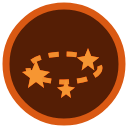
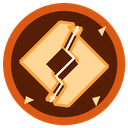
Battle readability: round and enrage counter, Broken look, honest dodge, tip fixes
- Round counter under the stage info (both HUDs): Round N, red with
  "Enrage xN" from round 10 (the wide HUD adds +N0% dmg / -N0% heal); not
  in the Titan fight. A one-time Enrage tip (Tips "enrage").
- Broken has its own look: a new status icon (cracked sigil, not Stun's
  stars; unity/Tools~/skin/broken_icon.py), a recoil-and-hold reaction
  instead of the dazed crouch, cracked ground in the breaking element, and
  an orange BREAK! banner.
- The Break tip and legend no longer say only foes can be Broken.
- The dodge roll only plays on a fully absorbed hit, never when HP drops.
- The screenshot tour's combat-ui shot also stages a Broken icon and an
  enraged round counter.

Claude-Session: https://claude.ai/code/session_01MzwG5WXmTevVo9pQJnfpqh

diff --git a/unity/Assets/Sigilbound/Client/BattleController.cs b/unity/Assets/Sigilbound/Client/BattleController.cs
@@ -616,7 +616,7 @@ namespace Sigilbound.Client
                 {
                     case EvType.Damage:
                         if (e.Dot) { SkillFx.I?.DebuffTick(v.transform.position, "poison"); Vfx.I.Number(c, Ui.Fmt(e.Amount), new Color(0.5f, 1f, 0.45f)); break; }
-                        if (e.Amount <= 0) break; // fully absorbed by a shield: the "Shield" number says it (no "CRIT 0")
+                        if (e.Amount <= 0) { v.Hit(false, true); break; } // fully absorbed by a shield: the "Shield" number says it (no "CRIT 0"); only now may it dodge
                         // weapon x armour: the attacker's weapon landing and the defender's armour answering (plate clangs,
                         // mail jingles, leather slaps, cloth thuds), heard from where the blow lands; the Titan is plate.
                         float hpan = Sound.PanOf(c);
@@ -626,8 +626,8 @@ namespace Sigilbound.Client
                         if (SkillFx.I != null) SkillFx.I.Impact(c, e.Source != null ? e.Source.El : _lastEl, e.Crit); else Vfx.I.Burst(c, color, e.Crit);
                         // The attacker's signature motif on each hit (phase E 53-55).
                         if (SkillFx.I != null && e.Source != null && !e.Source.Titan) SkillFx.I.Signature(c, e.Source.El, HeroSignatures.Of(e.Source.Template.Id, e.Source.El), e.Crit ? 0.9f : 0.6f);
-                        // Heavier reaction on crits and hits over 14% of max HP; weak glancing blows may be rolled away.
-                        v.Hit(e.Crit || e.Amount / (float)Mathf.Max(1, e.Unit.MaxHp) > 0.14f, e.Elem < 1 || e.Amount / (float)Mathf.Max(1, e.Unit.MaxHp) < 0.04f);
+                        // Heavier reaction on crits and hits over 14% of max HP. HP was lost, so no dodge (PLAN step 99).
+                        v.Hit(e.Crit || e.Amount / (float)Mathf.Max(1, e.Unit.MaxHp) > 0.14f);
                         if (e.Crit) SkillFx.I?.CritFlash(e.Source != null ? e.Source.El : _lastEl);
                         ArenaEvents.RaiseHit(v.transform.position, e.Amount / (float)Mathf.Max(1, e.Unit.MaxHp), e.Crit, _ultBy != null || (e.Source != null && e.Source.Boss));
                         Vfx.I.Number(c + Vector3.up * 0.3f, (e.Crit ? "CRIT " : "") + Ui.Fmt(e.Amount),
@@ -650,10 +650,20 @@ namespace Sigilbound.Client
                         else if (e.Fx == FxType.Shield) SkillFx.I.Shield(v.transform.position);
                         else SkillFx.I.Buff(v.transform.position, FxDef.IsBuff(e.Fx));
                         if (e.Fx == FxType.Stun) { if (KnocksDown(e)) v.KnockDown(); else v.Stun(); }
-                        else if (e.Fx == FxType.Broken) { v.Stun(); Tips.SawBreak = true; } // the one-time Weakness Break tip
+                        else if (e.Fx == FxType.Broken)
+                        {
+                            // Its own look (not Stun's): recoil and hold, cracked ground in the element that broke it.
+                            v.Broken(); Tips.SawBreak = true; // the one-time Weakness Break tip
+                            SkillFx.I?.Cracks(v.transform.position, BreakerOf(e.Unit.El), 1.4f);
+                            Vfx.I.Shake(0.08f);
+                        }
                         else v.StatusPulse(FxDef.IsBuff(e.Fx));
                         Vfx.I.Number(c + Vector3.up * 0.6f, SkillText.EffectName(e.Fx), FxDef.IsBuff(e.Fx) ? new Color(1f, 0.85f, 0.4f) : new Color(0.8f, 0.55f, 1f), 0.7f); break;
-                    case EvType.Text: Vfx.I.Number(c + Vector3.up * 0.6f, e.Text, new Color(0.8f, 0.9f, 1f), 0.7f); if (e.Text == "Revived!") v.Revived();
+                    case EvType.Text:
+                        if (e.Text == "Break!" || e.Text == "Broken!") Vfx.I.Number(c + Vector3.up * 0.75f, e.Text == "Break!" ? "BREAK!" : "Broken!", BreakColor, e.Text == "Break!" ? 1.35f : 0.9f); // the break banner, in the break bar's orange
+                        else Vfx.I.Number(c + Vector3.up * 0.6f, e.Text, new Color(0.8f, 0.9f, 1f), 0.7f);
+                        if (e.Text.StartsWith("Enrage")) Tips.SawEnrage = true; // the one-time Enrage tip
+                        if (e.Text == "Revived!") v.Revived();
                         if (e.Text == "Counter!")
                         {
                             // The counter's own hit follows: face whoever it lands on.
@@ -668,6 +678,22 @@ namespace Sigilbound.Client
         }
 
         static readonly Color BreakColor = new Color(1f, 0.6f, 0.22f); // the weakness break meter (PLAN step 98)
+        // The element that beats `el` (the one whose hits break it).
+        static Element BreakerOf(Element el) { foreach (var x in Elements) if (ElementMultiplier(x, el) > 1) return x; return el; }
+
+        // Round counter (PLAN step 99): the wave's round, red with "Enrage xN" from round EnrageFrom, when every hit
+        // deals +10% per stack and healing and shields lose as much. Not in the Titan fight (no enrage; it has turns).
+        static readonly Color EnrageRed = new Color(0.86f, 0.2f, 0.16f);
+        void RoundPill(float x, float y, bool detail)
+        {
+            if (_b == null || _b.IsTitan || _b.Over) return;
+            int st = _b.EnrageStacks;
+            string txt = st > 0 ? (detail ? $"Round {_b.Round} · Enrage x{st}  +{st * 10}% dmg  -{System.Math.Min(100, st * 10)}% heal" : $"Round {_b.Round} · Enrage x{st}") : $"Round {_b.Round}";
+            float w = st > 0 ? (detail ? 262 : 138) : 70;
+            var r = new Rect(x, y, w, 20);
+            Ui.Round(r, st > 0 ? new Color(EnrageRed.r, EnrageRed.g, EnrageRed.b, 0.88f) : new Color(0.06f, 0.05f, 0.08f, 0.6f), st > 0 ? (Color?)new Color(1f, 0.55f, 0.45f) : null, 8);
+            Ui.Text(r, txt, 11, st > 0 ? Color.white : Palette.Dim, FontStyle.Bold, TextAnchor.MiddleCenter);
+        }
         // The break meter: a dark track with an orange fill and a bright leading edge, so a part-filled meter
         // reads at battle size (the first 2 px line was invisible in the in-game check).
         static void BreakBar(Rect r, double brk)
@@ -965,6 +991,7 @@ namespace Sigilbound.Client
             bx -= 46; if (Ui.Button(new Rect(bx, top + 8, 42, 34), "Cam", Ui.Kind.Secondary, 11)) CycleCamera();
             Ui.Text(new Rect(56, top + 8, bx - 60, 34), info, 12, Palette.Text, FontStyle.Bold, TextAnchor.MiddleLeft, false, true);
             DrawTurnBar(top + 50);
+            RoundPill(8, top + 84, false);
 
             // unit bars + tap targets
             bool manual = _awaiting && _actor != null && _actor.Ally && !Auto;
@@ -1066,6 +1093,7 @@ namespace Sigilbound.Client
             Ui.Text(new Rect(info.x + 6, info.y + 2, 220, 18), where, 12, Palette.Text, FontStyle.Bold, TextAnchor.MiddleLeft, false, true);
             Icons.Draw(new Rect(info.x + 6, info.y + 22, 12, 12), Icon.Clock, Palette.Dim);
             Ui.Text(new Rect(info.x + 22, info.y + 20, 200, 16), $"{secs / 60}:{secs % 60:00}{(round.Length > 0 ? "   " + round : "")}", 11, Palette.Dim);
+            RoundPill(info.x - 4, info.y + 42, true);
 
             // ---- top-right: camera, loop, auto, speed, pause ----
             float bx = right - 40;

diff --git a/unity/Assets/Sigilbound/Core/Tips.cs b/unity/Assets/Sigilbound/Core/Tips.cs
@@ -13,7 +13,8 @@ namespace Sigilbound.Core
         {
             new Tip { Id = "welcome", Title = "Welcome to Sigilbound", Body = "Press Continue Campaign to fight. Clearing stages earns gold, XP, gear and summon shards.\n\nClaim your Daily Login and finish Daily Quests on this screen every day. Everything is free — there is no shop." },
             new Tip { Id = "battle", Title = "How battles work", Body = "On your hero's turn, tap a skill, then tap a target. Skills that say \"ready in\" need a few turns to recharge.\n\nElements matter: Flame beats Gale, Gale beats Tide, Tide beats Flame, and Light and Shadow beat each other.\n\nTap Auto to let the heroes fight on their own, and the speed button to go up to 3x." },
-            new Tip { Id = "break", Title = "Weakness Break", Body = "Break! Hits from the element that beats a foe fill its orange bar. When full, the foe loses a turn." },
+            new Tip { Id = "break", Title = "Weakness Break", Body = "Break! Hits from the element that beats a unit fill its orange bar (your heroes have one too). When it's full, that unit is Broken and loses its next turn." },
+            new Tip { Id = "enrage", Title = "Enrage", Body = "Long fights Enrage from round 10 of a wave: each round after that, every hit (both sides) deals 10% more damage and healing and shields get 10% weaker. The round counter turns red.\n\nBy round 19 healing and shields stop working, so bring enough damage to finish the fight." },
             new Tip { Id = "gear", Title = "You found gear!", Body = "Open Heroes, pick a hero and tap a gear slot to equip it — or tap Auto-equip. Two pieces of the same set give a bonus.\n\nGear shows on the hero's 3D model, and better gear looks fancier." },
             new Tip { Id = "summon", Title = "Summon new heroes", Body = "You have summon shards. Open Summon to call new heroes — every shard is earned by playing." },
             new Tip { Id = "trials", Title = "Dungeons unlocked", Body = "Open Trials for daily Dungeons: gold, a big hero-XP boost, or gear of the set you choose. You get 3 winning runs per dungeon each day." },
@@ -23,6 +24,8 @@ namespace Sigilbound.Core
         // Set by the battle view the first time it shows a unit being Broken (PLAN step 98): the "break" tip
         // then explains Weakness Break once, in the battle the player is watching.
         public static bool SawBreak;
+        // Set by the battle view when a wave first Enrages (PLAN step 99): the "enrage" tip explains it once.
+        public static bool SawEnrage;
 
         static bool When(Tip t, Game g, bool onHome, bool inBattle)
         {
@@ -32,6 +35,7 @@ namespace Sigilbound.Core
                 case "welcome": return S.started && onHome;
                 case "battle": return inBattle;
                 case "break": return inBattle && SawBreak;
+                case "enrage": return inBattle && SawEnrage;
                 case "gear": return !inBattle && S.wins > 0 && S.gear.Count > 0;
                 case "summon": return !inBattle && S.cleared >= 3 && S.shardCommon + S.shardMystic + S.shardRadiant > 0;
                 case "trials": return !inBattle && g.DungeonsOpen;

diff --git a/unity/Assets/Sigilbound/Client/CharacterView.cs b/unity/Assets/Sigilbound/Client/CharacterView.cs
@@ -503,8 +503,9 @@ namespace Sigilbound.Client
             _busy = false;
         }
 
-        // big: a crit or more than 14% of max HP (heavier reaction); glancing blows may be rolled away.
-        public void Hit(bool big = false, bool glancing = false)
+        // big: a crit or more than 14% of max HP (heavier reaction). noHpLost: the blow was fully absorbed, so it
+        // may be rolled away or blocked; a hit that costs HP never plays the dodge (MECHANICS.md 9.6).
+        public void Hit(bool big = false, bool noHpLost = false)
         {
             if (_dead) return;
             if (_animator != null) _animator.SetTrigger("Hit");
@@ -512,7 +513,7 @@ namespace Sigilbound.Client
             {
                 bool guard = !big && !Unit.Titan && (Unit.Template.Role == Role.Defense || Impact.FamilyOf(Unit.Template.Id) == WeaponFamily.Shield) && Random.value < 0.5f;
                 if (guard && _model.Block()) { }
-                else if (!big && glancing && !Unit.Titan && Unit.Template.Role != Role.Defense && Random.value < 0.35f && _model.Roll()) { } // Defense never dodges
+                else if (!big && noHpLost && !Unit.Titan && Unit.Template.Role != Role.Defense && Random.value < 0.35f && _model.Roll()) { } // Defense never dodges
                 else _model.Hit(big);
             }
             if (!Unit.Titan) _hitCo = StartCoroutine(HitRoutine(big));
@@ -590,6 +591,23 @@ namespace Sigilbound.Client
         }
 
         public void Stun() { if (!_dead && _model != null && !Unit.Titan && !_busy && _model.Stunned()) StartCoroutine(StunRoutine()); }
+
+        // Broken (MECHANICS.md 3.1 and 9.4): a weakness break, told apart from Stun's dazed crouch. A heavy recoil,
+        // a 0.22 s hit-stop hold, then the shoulders-down posture pulse back into the stance (the lost turn itself
+        // shows "Broken!"). The cracked ground and the BREAK! banner come from BattleController.
+        public void Broken() { if (!_dead && _model != null && !Unit.Titan && !_busy) StartCoroutine(BrokenRoutine()); }
+        IEnumerator BrokenRoutine()
+        {
+            _busy = true;
+            _model.Hit(true);
+            yield return new WaitForSeconds(0.16f);
+            if (_dead) { _busy = false; yield break; }
+            _model.SetFrozen(true); yield return new WaitForSeconds(0.22f); _model.SetFrozen(false);
+            if (_posture != null) _posture.Pulse(false);
+            yield return new WaitForSeconds(0.35f);
+            if (!_dead) _model.Idle(0.25f);
+            _busy = false;
+        }
         IEnumerator StunRoutine() { yield return new WaitForSeconds(2.4f); if (!_dead && !_busy) _model.Idle(0.3f); }
 
         public void Lose() { if (!_dead && _model != null) { _busy = true; _model.Defeat(); } }

diff --git a/unity/Tests~/ParityTests.cs b/unity/Tests~/ParityTests.cs
@@ -333,7 +333,9 @@ static class ParityTests
         Check(t1?.Id == "welcome" && t2 == null && t3?.Id == "battle" && tg.S.modes.tips.SequenceEqual(new[] { "welcome", "battle" }), "first-time tips show once each, in order, when their condition holds");
         // Unity-only: the Weakness Break tip waits for a watched Break, then shows once (PLAN step 98).
         Tips.SawBreak = false; var tb0 = Tips.Next(tg, false, true); Tips.SawBreak = true; var tb1 = Tips.Next(tg, false, true); var tb2 = Tips.Next(tg, false, true); Tips.SawBreak = false;
-        Check(tb0 == null && tb1?.Id == "break" && tb1.Body.StartsWith("Break! Hits from the element that beats a foe") && tb2 == null, "the Weakness Break tip shows once, after the first Break the player sees");
+        Check(tb0 == null && tb1?.Id == "break" && tb1.Body.StartsWith("Break! Hits from the element that beats a unit") && tb1.Body.Contains("your heroes") && tb2 == null, "the Weakness Break tip shows once, after the first Break the player sees (heroes can be Broken too)");
+        Tips.SawEnrage = false; var te0 = Tips.Next(tg, false, true); Tips.SawEnrage = true; var te1 = Tips.Next(tg, false, true); var te2 = Tips.Next(tg, false, true); Tips.SawEnrage = false;
+        Check(te0 == null && te1?.Id == "enrage" && te1.Body.Contains("round 10") && te2 == null, "the Enrage tip shows once, after the first Enrage in a battle");
         var vet = new Game(seed: 3) { Now = () => now }; vet.StartWith("hask"); vet.S.wins = 4; vet.S.summons = 2; Tips.Seed(vet);
         Check(vet.S.modes.tips.Contains("welcome") && vet.S.modes.tips.Contains("battle") && vet.S.modes.tips.Contains("gear") && vet.S.modes.tips.Contains("summon"), "existing players skip beginner tips (seedTips)");
         var run = new AutoRun(); run.Record(true, new Reward { Gold = 500, Xp = 100, Common = 1 }, true, new[] { "Hask Lv 6" }); run.Record(false, null, false, null);

diff --git a/unity/Tools~/skin/broken_icon.py b/unity/Tools~/skin/broken_icon.py
@@ -1,0 +1,31 @@
+# Usage: python3 unity/Tools~/skin/broken_icon.py unity/Assets/Resources/StatusIcons/Broken.png
+# Broken status icon (PLAN step 99): the same orange rim and fill as the old icon, with a cracked
+# diamond sigil in place of Stun's orbiting stars, so Broken no longer reads as Stun.
+import sys
+from PIL import Image, ImageDraw
+S = 512; k = S / 128
+img = Image.new("RGBA", (S, S), (40, 10, 0, 0)); d = ImageDraw.Draw(img)
+d.ellipse([3*k, 3*k, 125*k, 125*k], fill=(218, 89, 19, 255))
+d.ellipse([11*k, 11*k, 117*k, 117*k], fill=(85, 30, 5, 255))
+def P(pts): return [(x*k, y*k) for x, y in pts]
+cream = (255, 214, 150, 255); glow = (255, 160, 60, 255)
+# crack line through the diamond: zigzag from top-right to bottom-left
+crack = [(78, 26), (66, 50), (74, 58), (56, 76), (62, 84), (50, 102)]
+left = [(64, 24), (78, 26), (66, 50), (74, 58), (56, 76), (62, 84), (50, 102), (64, 104), (24, 64)]
+right = [(64, 24), (104, 64), (64, 104), (50, 102), (62, 84), (56, 76), (74, 58), (66, 50), (78, 26)]
+# the two halves pushed apart (left up-left, right down-right)
+dx = 4
+L = [(x - dx, y - dx * 0.6) for x, y in left]; R = [(x + dx, y + dx * 0.6) for x, y in right]
+for poly in (L, R):
+    d.polygon(P(poly), fill=cream, outline=glow)
+    d.line(P(poly + [poly[0]]), fill=glow, width=int(3*k))
+# inner sigil cut-out (a small diamond), split too
+inner = [(64, 48), (80, 64), (64, 80), (48, 64)]
+d.polygon(P([(x - dx * 0.5, y) for x, y in inner]), fill=(85, 30, 5, 255))
+# the crack glows in the gap
+d.line(P(crack), fill=(255, 245, 220, 255), width=int(2.4*k), joint="curve")
+# flying shards
+for tri in ([(98, 30), (106, 26), (102, 36)], [(26, 96), (34, 100), (24, 104)], [(92, 98), (100, 96), (96, 106)]):
+    d.polygon(P(tri), fill=cream)
+img = img.resize((128, 128), Image.LANCZOS)
+img.save(sys.argv[1])

diff --git a/unity/Assets/Sigilbound/Client/ShotsMode.cs b/unity/Assets/Sigilbound/Client/ShotsMode.cs
@@ -139,8 +139,9 @@ namespace Sigilbound.Client
             yield return new WaitForSecondsRealtime(4f);
             yield return Shot("battle-mid");
             LogBudget("battle-mid");
-            // Stage the new combat UI for one shot: a part-filled Break bar on each enemy and a x3 Poison
-            // stack (badge) on the first one (nothing is saved in this mode).
+            // Stage the new combat UI for one shot: a part-filled Break bar on each enemy, a x3 Poison stack
+            // (badge) on the first one, a Broken icon on the second and an enraged round counter (round 12,
+            // Enrage x3) (nothing is saved in this mode).
             var core = Battle.Engine;
             if (core != null)
             {
@@ -151,6 +152,8 @@ namespace Sigilbound.Client
                     var p = foes[0].Effects.Find(e => e.Type == FxType.Poison);
                     if (p != null) p.Stacks = 3; else foes[0].Effects.Add(new Effect { Type = FxType.Poison, Turns = 3, Stacks = 3 });
                 }
+                if (foes.Count > 1 && !foes[1].Has(FxType.Broken)) { foes[1].Break = 0; foes[1].Effects.Add(new Effect { Type = FxType.Broken, Turns = 1 }); }
+                core.SkipToRound(Sigilbound.Core.Battle.EnrageFrom + 2);
                 yield return Shot("combat-ui");
             }
             G.S.settings.speed = 3; // finish the fight quickly so the results screen is photographed

diff --git a/unity/Assets/Sigilbound/Client/StatusIcons.cs b/unity/Assets/Sigilbound/Client/StatusIcons.cs
@@ -25,7 +25,7 @@ namespace Sigilbound.Client
             (FxType.AtkDown, "Attack down", "Deals less damage."), (FxType.DefDown, "Defense down", "Takes more damage."),
             (FxType.Slow, "Slow", "Acts later."), (FxType.Poison, "Poison", "Loses health each turn (stacks up to 3)."),
             (FxType.Burn, "Burn", "Takes fire damage each turn (stacks up to 3)."), (FxType.Stun, "Stun", "Skips its next turn."),
-            (FxType.Broken, "Broken", "Weakness break: hit 3 times by the element that beats it, it skips a turn."),
+            (FxType.Broken, "Broken", "Weakness break: its orange bar filled (hits from the element that beats it), so it loses its next turn."),
         };
 
         // Draws the icons left to right from (x, y) (or centred on x when centre), each `size` square with its
